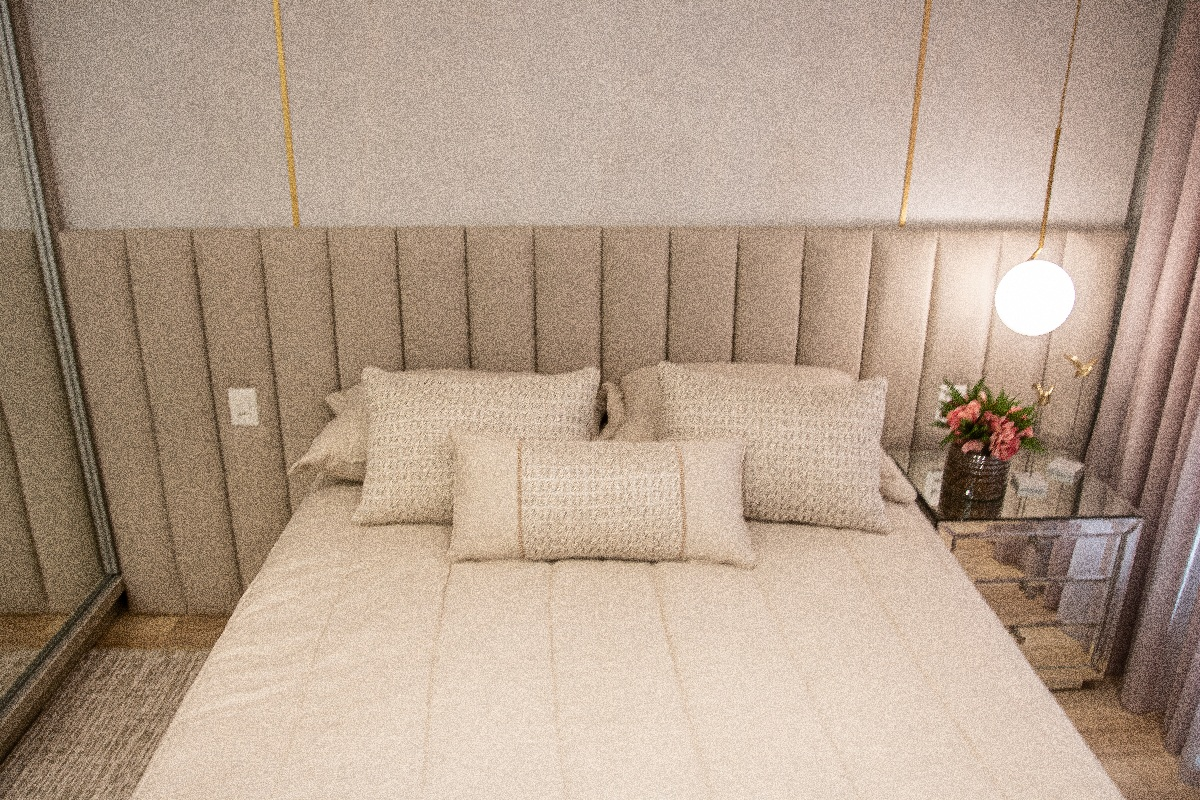
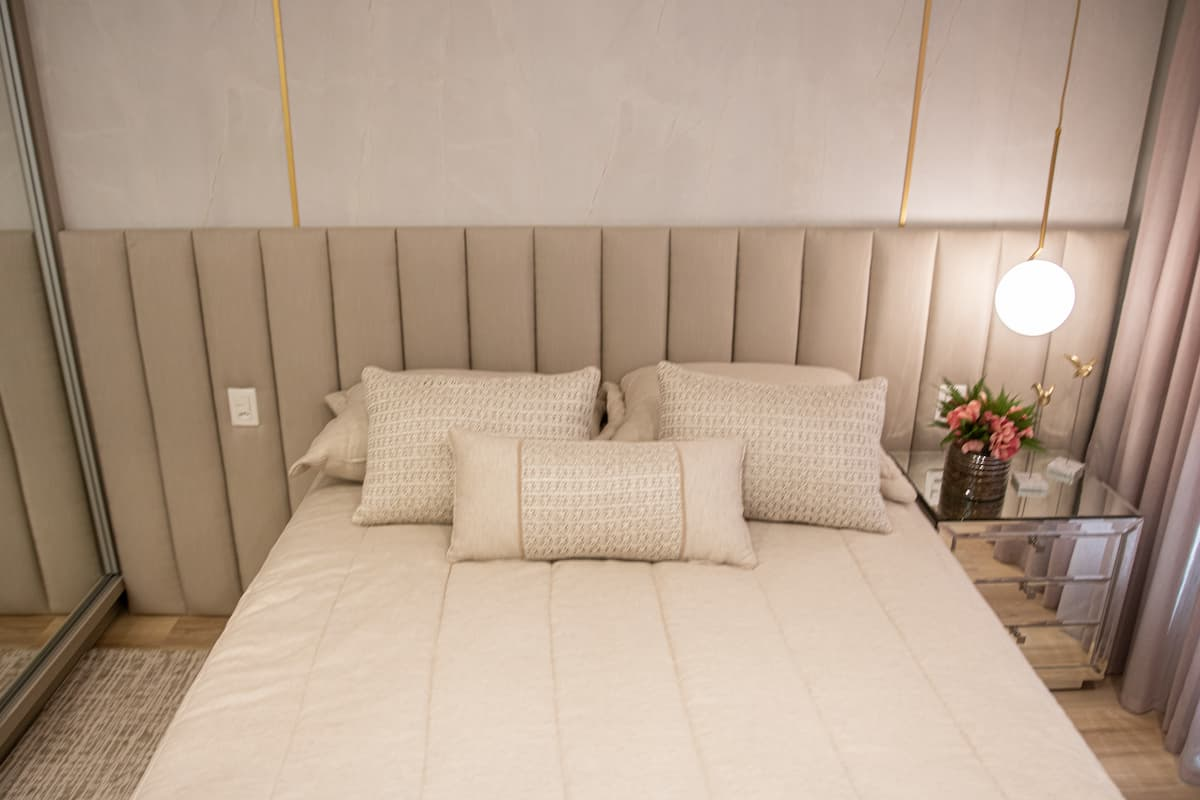
Modificado e adicionado
Modificado:
*scroll suave agora vai para antes da section por causa do header
*slide não tem mais efeito de slide com click ou com touch por causa de novo efeito de modal adicionado, para evitar bugs de rolar o slide e acabar abrindo o modal, se fez mais seguro remover esse efeito até segunda minha capacidade intelectual de programador ajudar e aprender como resolver :)
*1 foto do slide foi alterada pq estava muito feia, consegui reduzir o tamanho e aumentar a qualidade

Adicionado:
*Adicionado efeito de modal no slide, ao clicar em uma foto, ela aparecerá maior na tela
*Adicionado setas de PREV  e NEXT no slide devido a remoção do efeito de scroll do próprio

Changed region(s): [[0.0, 0.0, 1.0, 1.0]]

diff --git a/CSS/slide.css b/CSS/slide.css
@@ -2,11 +2,13 @@
     background-color: #262626;
     padding-top: 80px;
     padding-bottom: 80px;
+    position: relative;
 }
 
 .slide img {
     display: block;
     max-width: 100%;
+    cursor: pointer;
 }
 
 .slide-wrapper {
@@ -43,6 +45,38 @@
     transform: scale(1);
 }
 
+/* Botão de PREV e NEXT */
+
+.prev, .next {
+    border: none;
+    background: url("../img/slide/seta-slide.png") center center no-repeat;
+    background-color: white;
+    width: 100px;
+    height: 100px;
+    border-radius: 50%;
+    transform: rotate(45deg);
+    position: absolute;
+    transition: 0.3s;
+}
+
+.prev {
+    transform: rotate(-135deg);
+    left: 20px;
+    top: 40%;
+}
+
+.next {
+    top: 40%;
+    right: 20px;
+}
+
+.prev:hover, .next:hover {
+    width: 120px;
+    height: 120px;
+    top: 38%;
+    box-shadow: 0px 0px 5px rgb(37, 37, 37);
+}
+
 @media (max-width: 930px) {
     .slide li {
         width: 600px;
@@ -52,10 +86,31 @@
     .slide li {
         width: 500px;
     }
+    .next, .prev {
+        top: 38%;
+    }
 }
 @media (max-width: 700px) {
     .slide li {
         width: 400px;
+    }
+    .next, .prev {
+        top: 40%;
+        background: url("../img/slide/seta-slide-25px.png") center center no-repeat;
+        background-color: white;
+        width: 80px;
+        height: 80px;
+    }
+    .next:hover, .prev:hover {
+        width: 85px;
+        height: 85px;
+        top: 40%;
+    }
+    .next {
+        right: 10px;
+    }
+    .prev {
+        left: 10px;
     }
 }
 @media (max-width: 570px) {
@@ -71,6 +126,18 @@
 @media (max-width: 410px) {
     .slide li {
         width: 270px;
+    }
+    .next, .prev {
+        top: 43%;
+        background: url("../img/slide/seta-slide-15px.png") center center no-repeat;
+        background-color: white;
+        width: 65px;
+        height: 65px;
+    }
+    .next:hover, .prev:hover {
+        width: 70px;
+        height: 70px;
+        top: 43%;
     }
 }
 @media (max-width: 380px) {
@@ -90,5 +157,13 @@
 @media (max-width: 320px) {
     .slide li {
         width: 210px;
+    }
+    .next, .prev {
+        width: 50px;
+        height: 50px;
+    }
+    .next:hover, .prev:hover {
+        width: 55px;
+        height: 55px;
     }
 }

diff --git a/JS/slide.js b/JS/slide.js
@@ -40,14 +40,11 @@ export default class Slide {
     }
 
     onMove(event) {
-        const pointerPosition = (event.type == 'mousemove') ? event.clientX : event.changedTouches[0].clientX;
         const finalPosition = this.updatePosition(pointerPosition);
         this.moveSlide(finalPosition);
     }
 
     onEnd(event) {
-        const movetype = (event.type === 'mouseup') ? 'mousemove' : 'touchmove';
-        this.wrapper.removeEventListener('mousemove', this.onMove);
         this.dist.finalPosition = this.dist.movePosition;
         this.transition(true);
         this.changeSlideOnEnd();
@@ -74,6 +71,10 @@ export default class Slide {
         this.onStart = this.onStart.bind(this);
         this.onMove = this.onMove.bind(this);
         this.onEnd = this.onEnd.bind(this);
+
+        this.activePrevSlide = this.activePrevSlide.bind(this);
+        this.activeNextSlide = this.activeNextSlide.bind(this);
+
         this.onResize = debounce(this.onResize.bind(this), 200)
     }
 
@@ -138,6 +139,20 @@ export default class Slide {
         this.addSlideEvents();
         this.slidesConfig();
         this.addResizeEvent();
+        this.changeSlide(0);
         return this;
+    }
+}
+
+export class SlideNav extends Slide {
+    addArrow(prev, next) {
+        this.prevElement = document.querySelector(prev);
+        this.nextElement = document.querySelector(next);
+        this.addArrowEvent();
+    }
+
+    addArrowEvent() {
+        this.prevElement.addEventListener('click', this.activePrevSlide);
+        this.nextElement.addEventListener('click', this.activeNextSlide);
     }
 }

diff --git a/CSS/modal.css b/CSS/modal.css
@@ -1,0 +1,92 @@
+#modal-foto {
+    width: 750px;
+    height: 500px;
+    border-radius: 4px;
+    margin-left: 10px;
+    margin-right: 10px;
+}
+
+.modal-bg {
+    width: 100%;
+    height: 100%;
+    background-color: rgba(0, 0, 0, .8);
+    position: fixed;
+    top: 0px;
+    left: 0px;
+    z-index: 1;
+    visibility: hidden;
+}
+
+.modal {
+    display: flex;
+    justify-content: center;
+    align-items: center;
+    height: 100%;
+}
+
+.modal-fechar {
+    position: absolute;
+    top: 10px;
+    right: 10px;
+    color: white;
+    background-color: black;
+    padding: 5px 10px;
+    border-radius: 4px;
+    z-index: 2;
+    cursor: pointer;
+    border: 1px solid white;
+}
+
+.modal-active {
+    visibility: visible;
+}
+
+@media (max-width: 750px) {
+    #modal-foto {
+        width: 675px;
+        height: 450px;
+    }
+}
+
+@media (max-width: 675px) {
+    #modal-foto {
+        width: 600px;
+        height: 400px;
+    }
+}
+
+@media (max-width: 600px) {
+    #modal-foto {
+        width: 525px;
+        height: 350px;
+    }
+}
+
+@media (max-width: 525px) {
+    #modal-foto {
+        width: 500px;
+        height: 325px;
+    }
+}
+
+@media (max-width: 500px) {
+    #modal-foto {
+        width: 350px;
+        height: 525px;
+        margin-top: 10px;
+    }
+}
+
+@media (max-width: 400px) {
+    #modal-foto {
+        width: 275px;
+        height: 450px;
+    }
+}
+
+@media (max-width: 350px) {
+    #modal-foto {
+        width: 250px;
+        height: 425px;
+    }
+}

diff --git a/JS/modal.js b/JS/modal.js
@@ -1,0 +1,29 @@
+const imagensSlidePC = document.querySelectorAll('picture img')
+const imagensSlideCel = document.querySelectorAll('picture source')
+const imagensSlide = document.querySelectorAll('picture')
+const modal = document.querySelector('.modal-bg')
+const modalImg = document.querySelector('#modal-foto')
+const modalFechar = document.querySelector('.modal-fechar')
+let srcImg = ""
+
+for(let i = 0; i < imagensSlide.length; i++) {
+    imagensSlide[i].addEventListener('click' || 'touch', function(){
+        if (window.innerWidth > 500) {
+            srcImg = imagensSlidePC[i].getAttribute('src')
+            console.log(srcImg)
+            modalImg.setAttribute('src', srcImg);
+            modal.classList.add('modal-active');
+            body.classList.add('nav-active')
+        } else {
+            srcImg = imagensSlideCel[i].getAttribute('srcset');
+            modalImg.setAttribute('src', srcImg);
+            modal.classList.add('modal-active');
+            body.classList.add('nav-active')
+        }
+    })
+}
+
+modalFechar.addEventListener('click', function() {
+    modal.classList.remove('modal-active')
+    body.classList.remove('nav-active')
+})

diff --git a/index.html b/index.html
@@ -156,6 +156,10 @@
                 <source media="(max-width: 500px)" srcset="img/slide/foto30-cel.jpg" type="image/jpg">
                 <img src="img/slide/foto30.jpg" alt=""></picture></li>
         </ul>
+        <div class="arrow-nav">
+            <button class="prev"></button>
+            <button class="next"></button>
+        </div>
     </div>
 
     <section id="detalhes" class="visao-geral">
@@ -336,10 +340,18 @@
         </div>
     </footer>
 
+    <section class="modal-bg">
+        <div class="modal">
+            <img src="img/slide/foto1.jpg" id="modal-foto" alt="">
+        </div>
+        <span class="modal-fechar">X</span>
+    </section>
+
     <script src="JS/conheca.js"></script>
     <script src="JS/scroll-suave.js"></script>
     <script src="JS/header.js"></script>
     <script src="JS/descricao.js"></script>
     <script type="module" src="JS/script.js"></script>
+    <script src="JS/modal.js"></script>
 </body>
 </html>

diff --git a/JS/script.js b/JS/script.js
@@ -1,6 +1,7 @@
-import Slide from "./slide.js";
+import {SlideNav} from "./slide.js";
 
-const slide = new Slide('.slide', '.slide-wrapper');
+const slide = new SlideNav('.slide', '.slide-wrapper');
 slide.init();
+slide.addArrow('.prev', '.next');
 
-slide.changeSlide(0);
+console.log(slide)

diff --git a/JS/scroll-suave.js b/JS/scroll-suave.js
@@ -14,7 +14,7 @@ function scrollToIdOnClick(event) {
     const element = event.target;
     const to = getScrollTopByHref(event.target);
 
-    scrollToPosition(to);
+    scrollToPosition(to - 104);
 }
 
 function scrollToPosition(to) {

diff --git a/CSS/global.css b/CSS/global.css
@@ -13,7 +13,3 @@
     padding-left: 20px;
     padding-right: 20px;
 }
-
-body {
-    height: 2000px;
-}

diff --git a/CSS/style.css b/CSS/style.css
@@ -21,3 +21,5 @@
 @import "footer.css";
 
 @import "materia.css";
+
+@import "modal.css";
